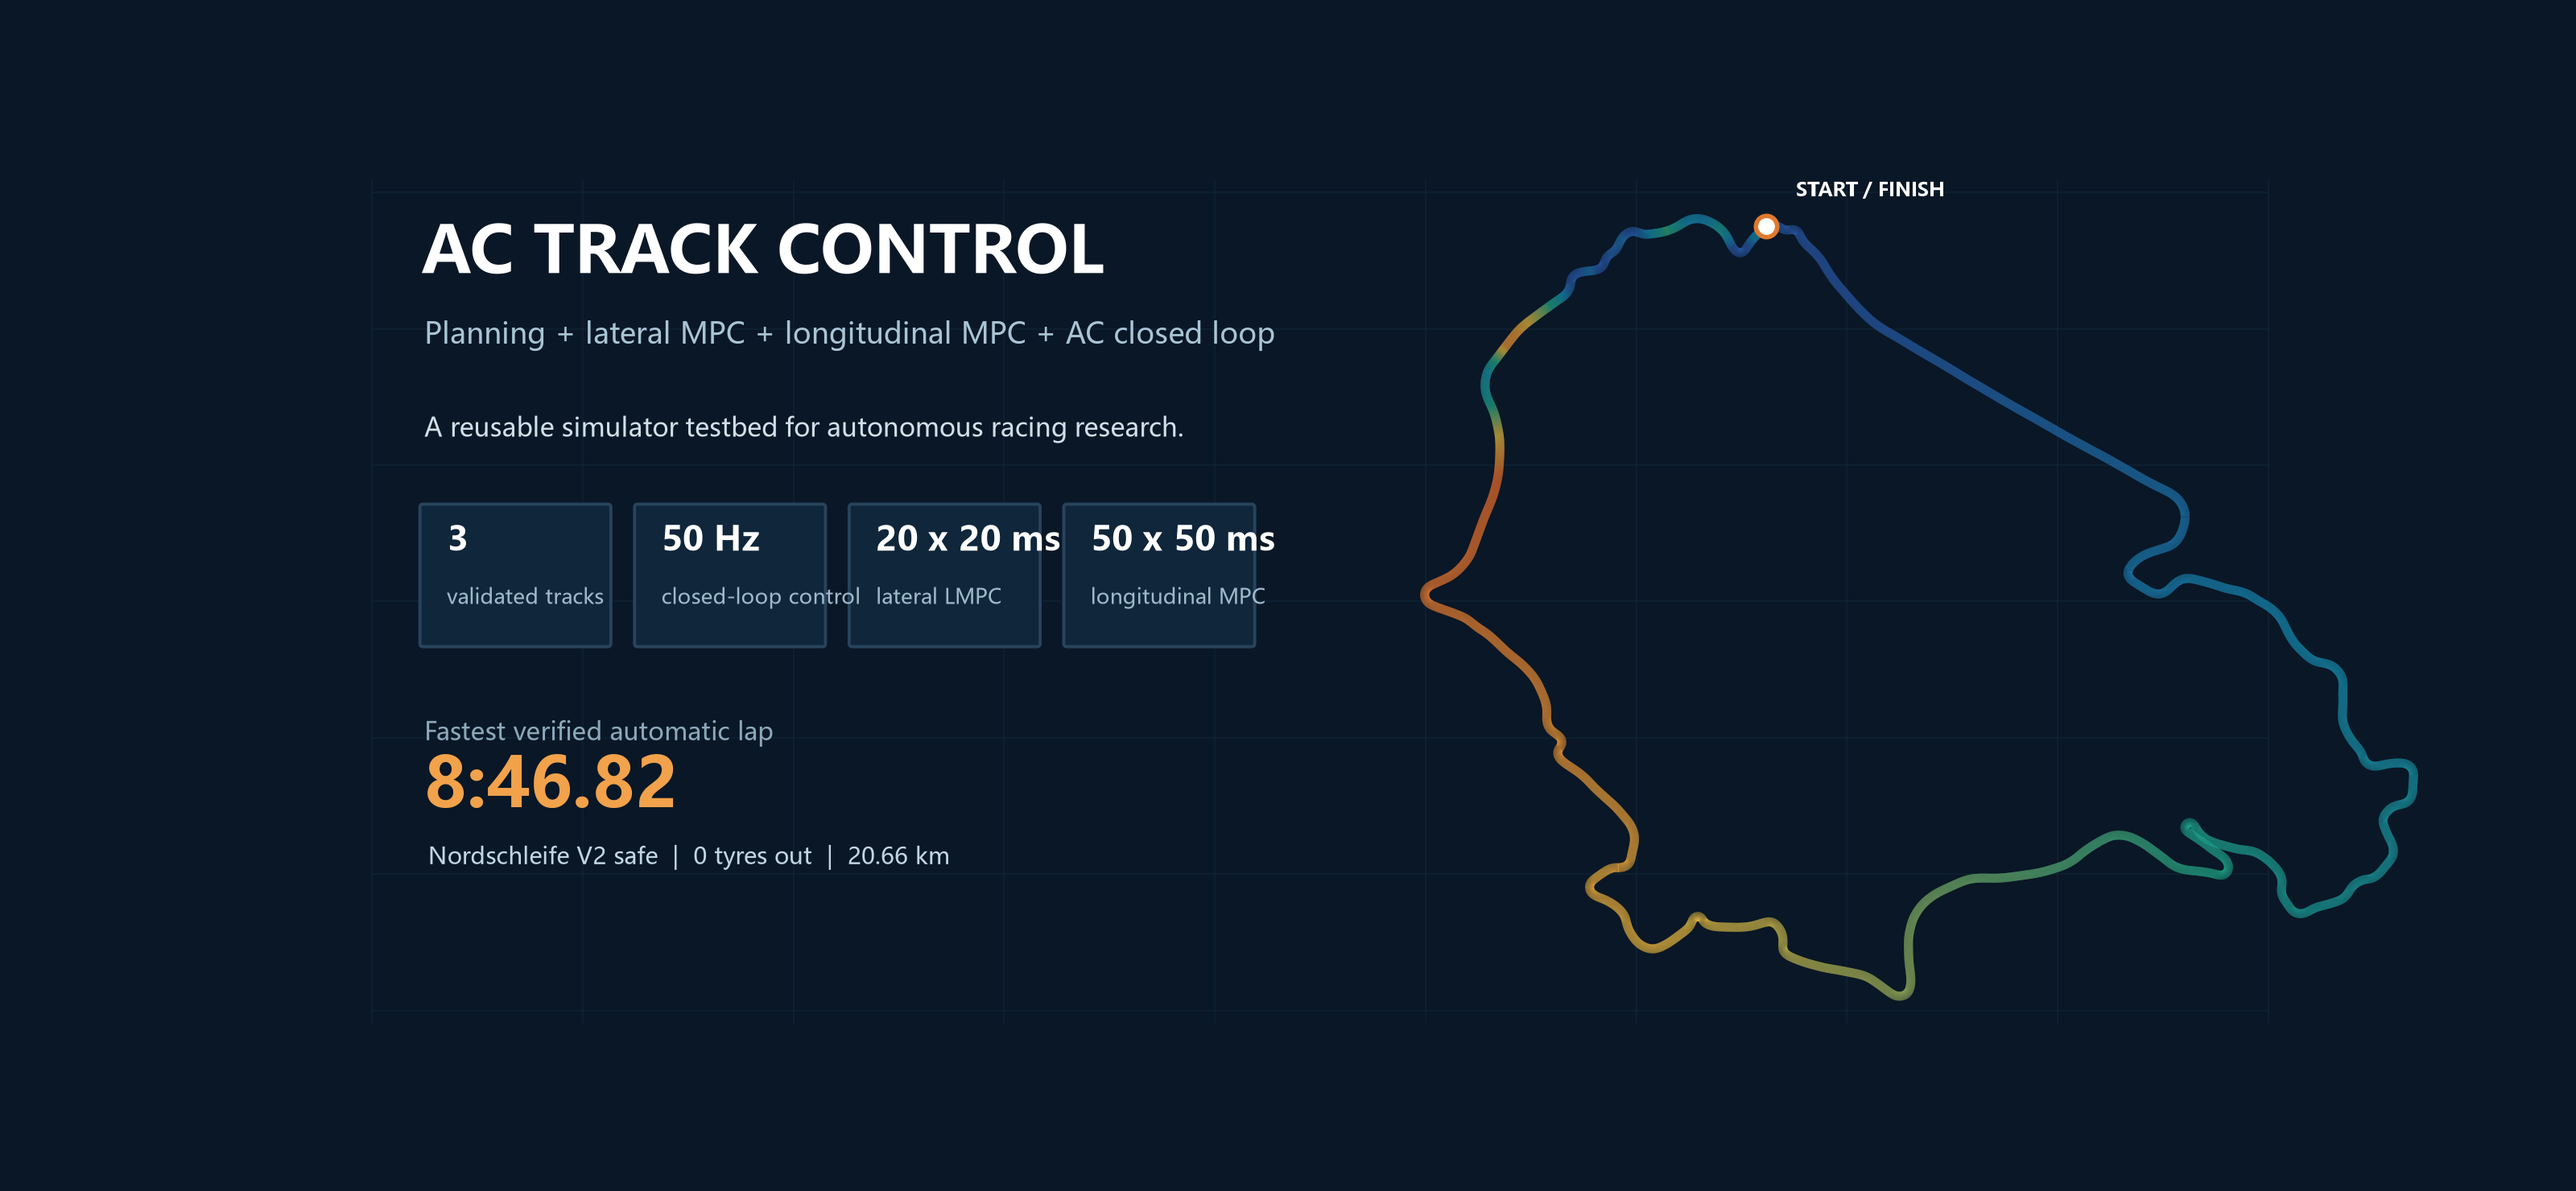
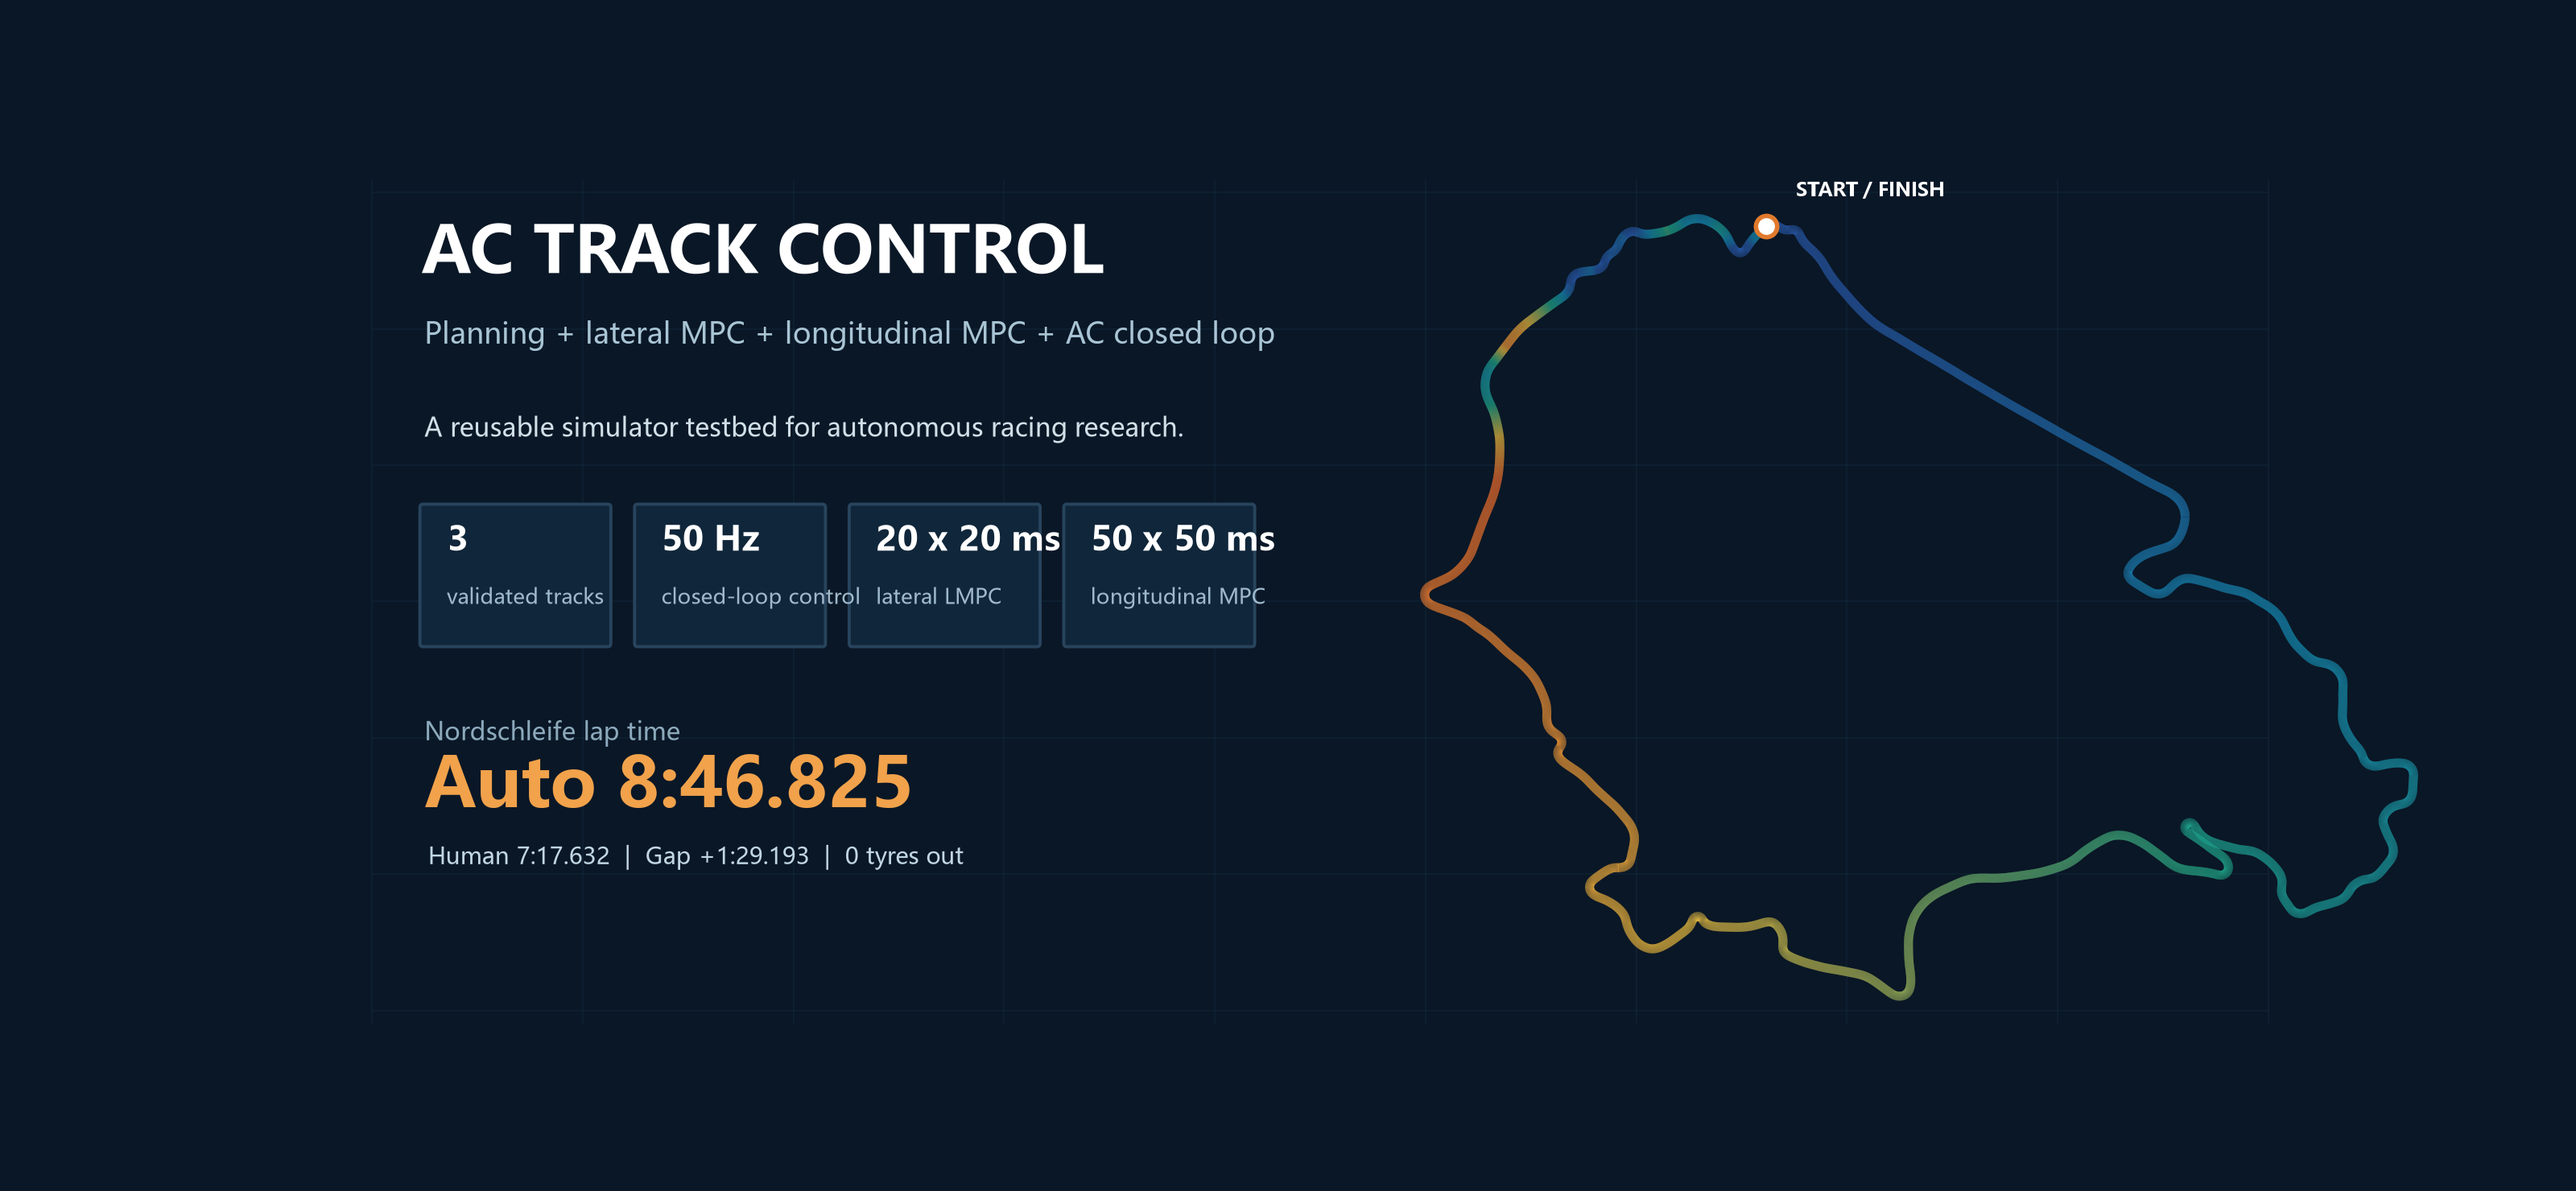
Add Nordschleife human lap and native Feishu formulas

Changed region(s): [[0.1562, 0.5905, 0.375, 0.6838], [0.1562, 0.7149, 0.375, 0.7459]]

diff --git a/tools/build_project_assets.py b/tools/build_project_assets.py
@@ -374,7 +374,8 @@ def build_track_results() -> None:
             "name": "Shanghai",
             "length": "5.43 km",
             "lap": 143.542842,
-            "label": "2:23.54",
+            "label": "2:23.543",
+            "human": "2:16.248",
             "status": "V63 verified; V64 final candidate",
             "max_speed": 268.726,
             "lat": 0.566,
@@ -385,7 +386,8 @@ def build_track_results() -> None:
             "name": "Zhejiang",
             "length": "3.11 km",
             "lap": 103.764338,
-            "label": "1:43.76",
+            "label": "1:43.764",
+            "human": "1:34.329",
             "status": "4 complete laps; 2 tyres out",
             "max_speed": 229.152,
             "lat": 0.530,
@@ -396,7 +398,8 @@ def build_track_results() -> None:
             "name": "Nordschleife",
             "length": "20.66 km",
             "lap": 526.824546,
-            "label": "8:46.82",
+            "label": "8:46.825",
+            "human": "7:17.632",
             "status": "1 complete lap; zero tyres out",
             "max_speed": 293.8,
             "lat": 0.461,
@@ -427,6 +430,7 @@ def build_track_results() -> None:
         ax.text(0.1, 0.54, "best recorded lap", fontsize=10, color=COLORS["muted"])
         ax.plot([0.1, 0.9], [0.48, 0.48], color=COLORS["grid"], linewidth=1)
         rows = [
+            ("Human reference", item["human"]),
             ("Max speed", f"{item['max_speed']:.1f} km/h"),
             ("p95 lateral", f"{item['lat']:.3f} m"),
             ("Tyres out", str(item["tyres"])),

diff --git a/tools/build_visual_report.py b/tools/build_visual_report.py
@@ -334,14 +334,14 @@ def build_hero() -> None:
     ax.text(
         0.82,
         2.58,
-        "Fastest verified automatic lap",
+        "Nordschleife lap time",
         fontsize=11,
         color="#8BA9BB",
     )
     ax.text(
         0.82,
         2.04,
-        "8:46.82",
+        "Auto 8:46.825",
         fontsize=31,
         fontweight="bold",
         color="#F1A24B",
@@ -349,7 +349,7 @@ def build_hero() -> None:
     ax.text(
         0.85,
         1.58,
-        "Nordschleife V2 safe  |  0 tyres out  |  20.66 km",
+        "Human 7:17.632  |  Gap +1:29.193  |  0 tyres out",
         fontsize=10.5,
         color="#C1D6E1",
     )
@@ -427,7 +427,7 @@ def build_track_maps() -> None:
             "name": "Nordschleife",
             "human_path": None,
             "auto_path": PROJECT_ROOT / "logs" / "lmpc_nordschleife_v2_safe.csv",
-            "human_label": "",
+            "human_label": f"Human {_format_lap_time(437.632)}",
             "auto_label": f"Auto {_format_lap_time(526.824546)}",
             "color": COLORS["orange"],
             "track_name": "ks_nordschleife",
@@ -486,6 +486,7 @@ def build_track_maps() -> None:
                 alpha=0.85,
                 zorder=1,
             )
+        if spec["human_label"]:
             ax.text(
                 0.0,
                 -0.075,

diff --git a/docs/RESULTS.md b/docs/RESULTS.md
@@ -10,7 +10,7 @@ number has a corresponding source path in `configs/final/manifest.json`.
 | --- | ---: | ---: | ---: | ---: | ---: | --- |
 | Shanghai | 136.248 s | 143.543 s | +7.295 s | 268.7 km/h | 0 | V63 verification baseline; V64 final candidate retained |
 | Zhejiang | 94.329 s | 103.764 s | +9.436 s | 229.2 km/h | 2 | V59 speed strategy with Shanghai longitudinal MPC parameters |
-| Nordschleife | - | 526.825 s | - | 293.8 km/h | 0 | V2 safe candidate, one complete lap |
+| Nordschleife | 7:17.632 | 8:46.825 | +1:29.193 | 293.8 km/h | 0 | V2 safe candidate, one complete lap |
 
 ![Verified results](../assets/figures/track_results.png)
 
@@ -77,7 +77,9 @@ The Zhejiang comparison shows:
 The V2 safe candidate completed the first full Nordschleife lap without any
 tyre leaving the track:
 
+- Human reference lap: `437.632 s`, about `7:17.632`
 - Lap time: `526.824546 s`, about `8:46.82`
+- Gap to human: `89.193 s`, about `1:29.193`
 - Maximum speed: `293.8 km/h`
 - p95 lateral error: `0.461 m`
 - Maximum lateral error: `1.877 m`

diff --git a/docs/TECHNICAL_REPORT.md b/docs/TECHNICAL_REPORT.md
@@ -551,9 +551,9 @@ $$
 
 | Item | Value |
 | --- | ---: |
-| Human | 136.248 s |
-| Auto | 143.543 s |
-| Gap | +7.295 s |
+| Human | 2:16.248 |
+| Auto | 2:23.543 |
+| Gap | +0:07.295 |
 | Auto max speed | 268.7 km/h |
 | p95 lateral error | 0.566 m |
 | Tyres out | 0 |
@@ -570,9 +570,9 @@ $$
 
 | Item | Value |
 | --- | ---: |
-| Human | 94.329 s |
-| Auto | 103.764 s |
-| Gap | +9.436 s |
+| Human | 1:34.329 |
+| Auto | 1:43.764 |
+| Gap | +0:09.436 |
 | Auto max speed | 229.2 km/h |
 | p95 lateral error | 0.535 m |
 | Tyres out | 2 |
@@ -587,7 +587,9 @@ V2 safe 版本第一次完整跑完纽北：
 
 | Item | Value |
 | --- | ---: |
-| Lap time | 526.825 s |
+| Human reference lap | 7:17.632 |
+| Automatic lap | 8:46.825 |
+| Gap | +1:29.193 |
 | Max speed | 293.8 km/h |
 | Mean speed | 143.6 km/h |
 | p95 lateral error | 0.461 m |
